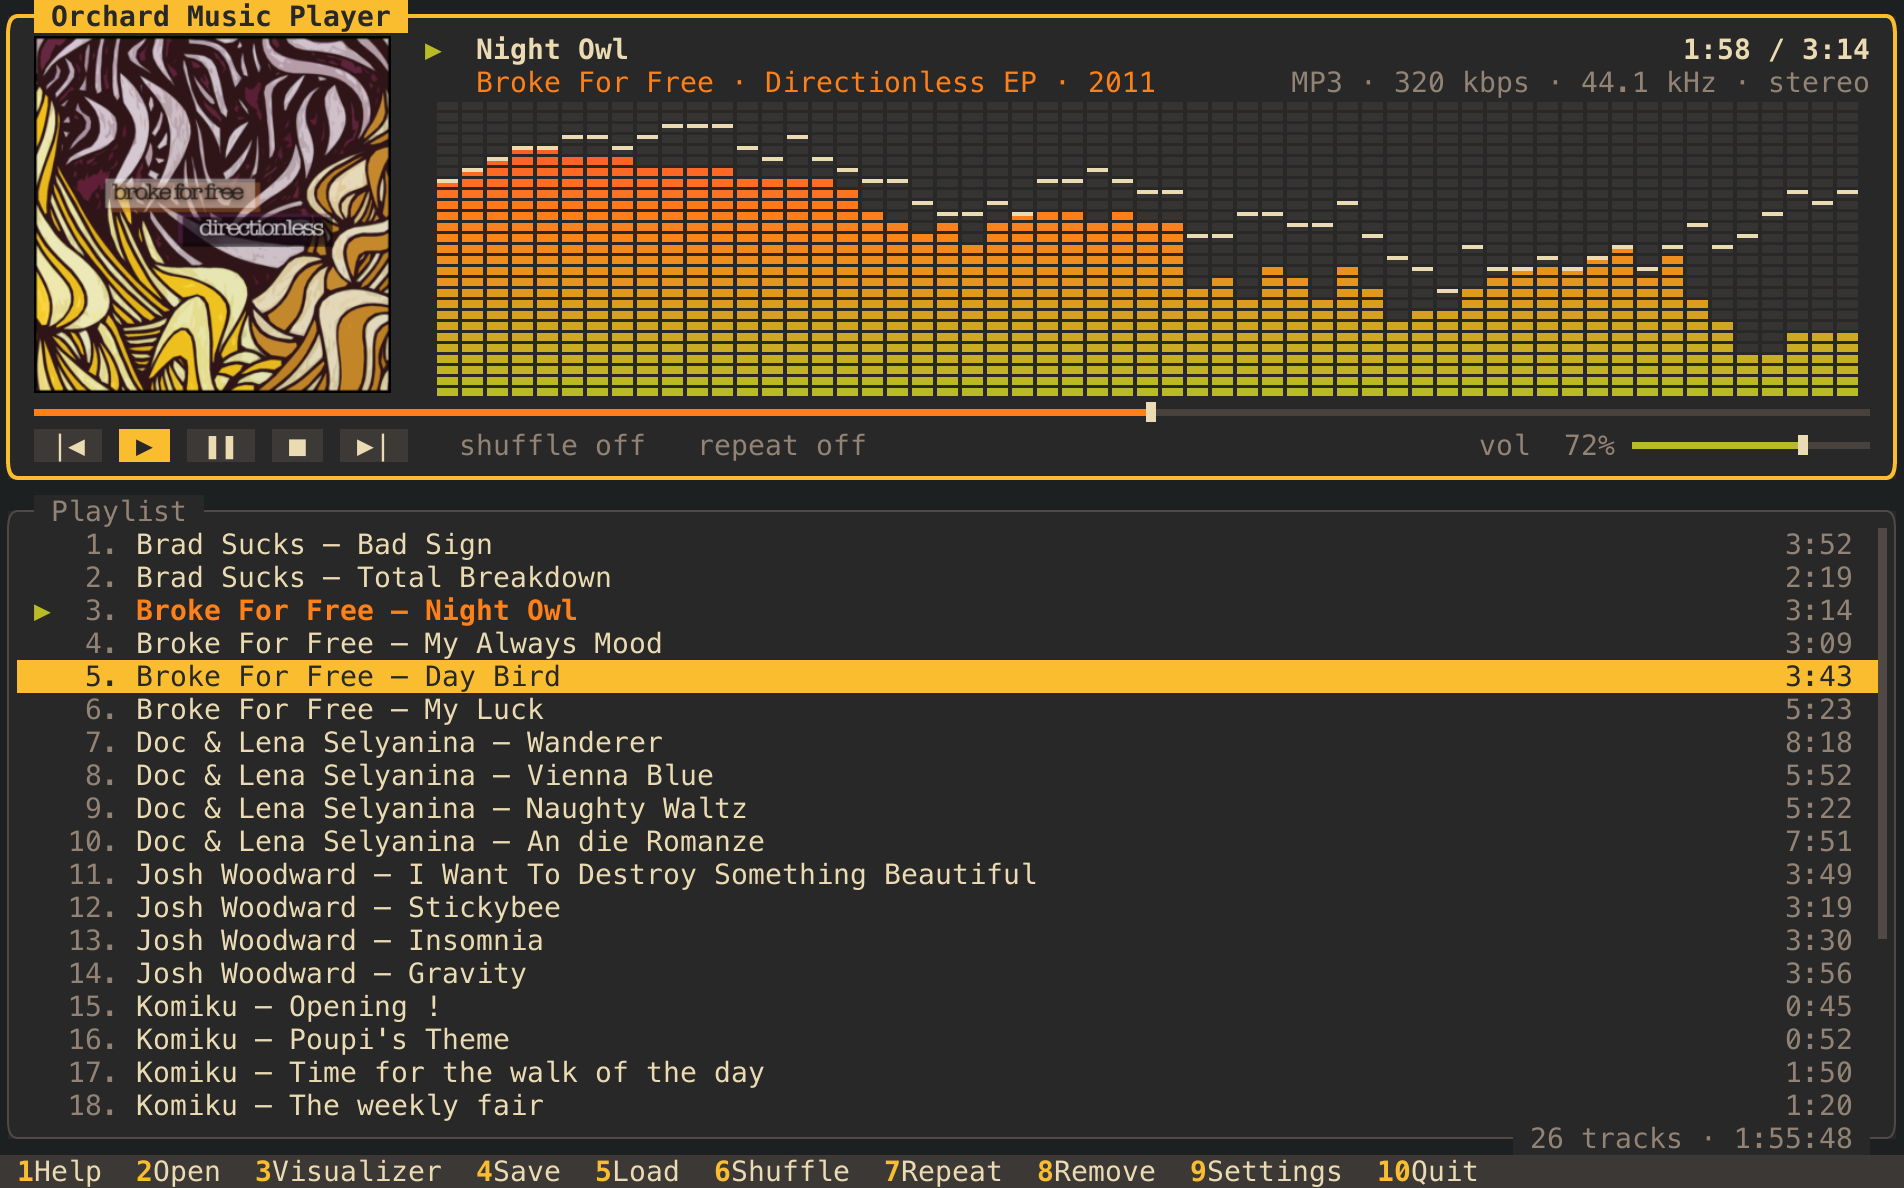
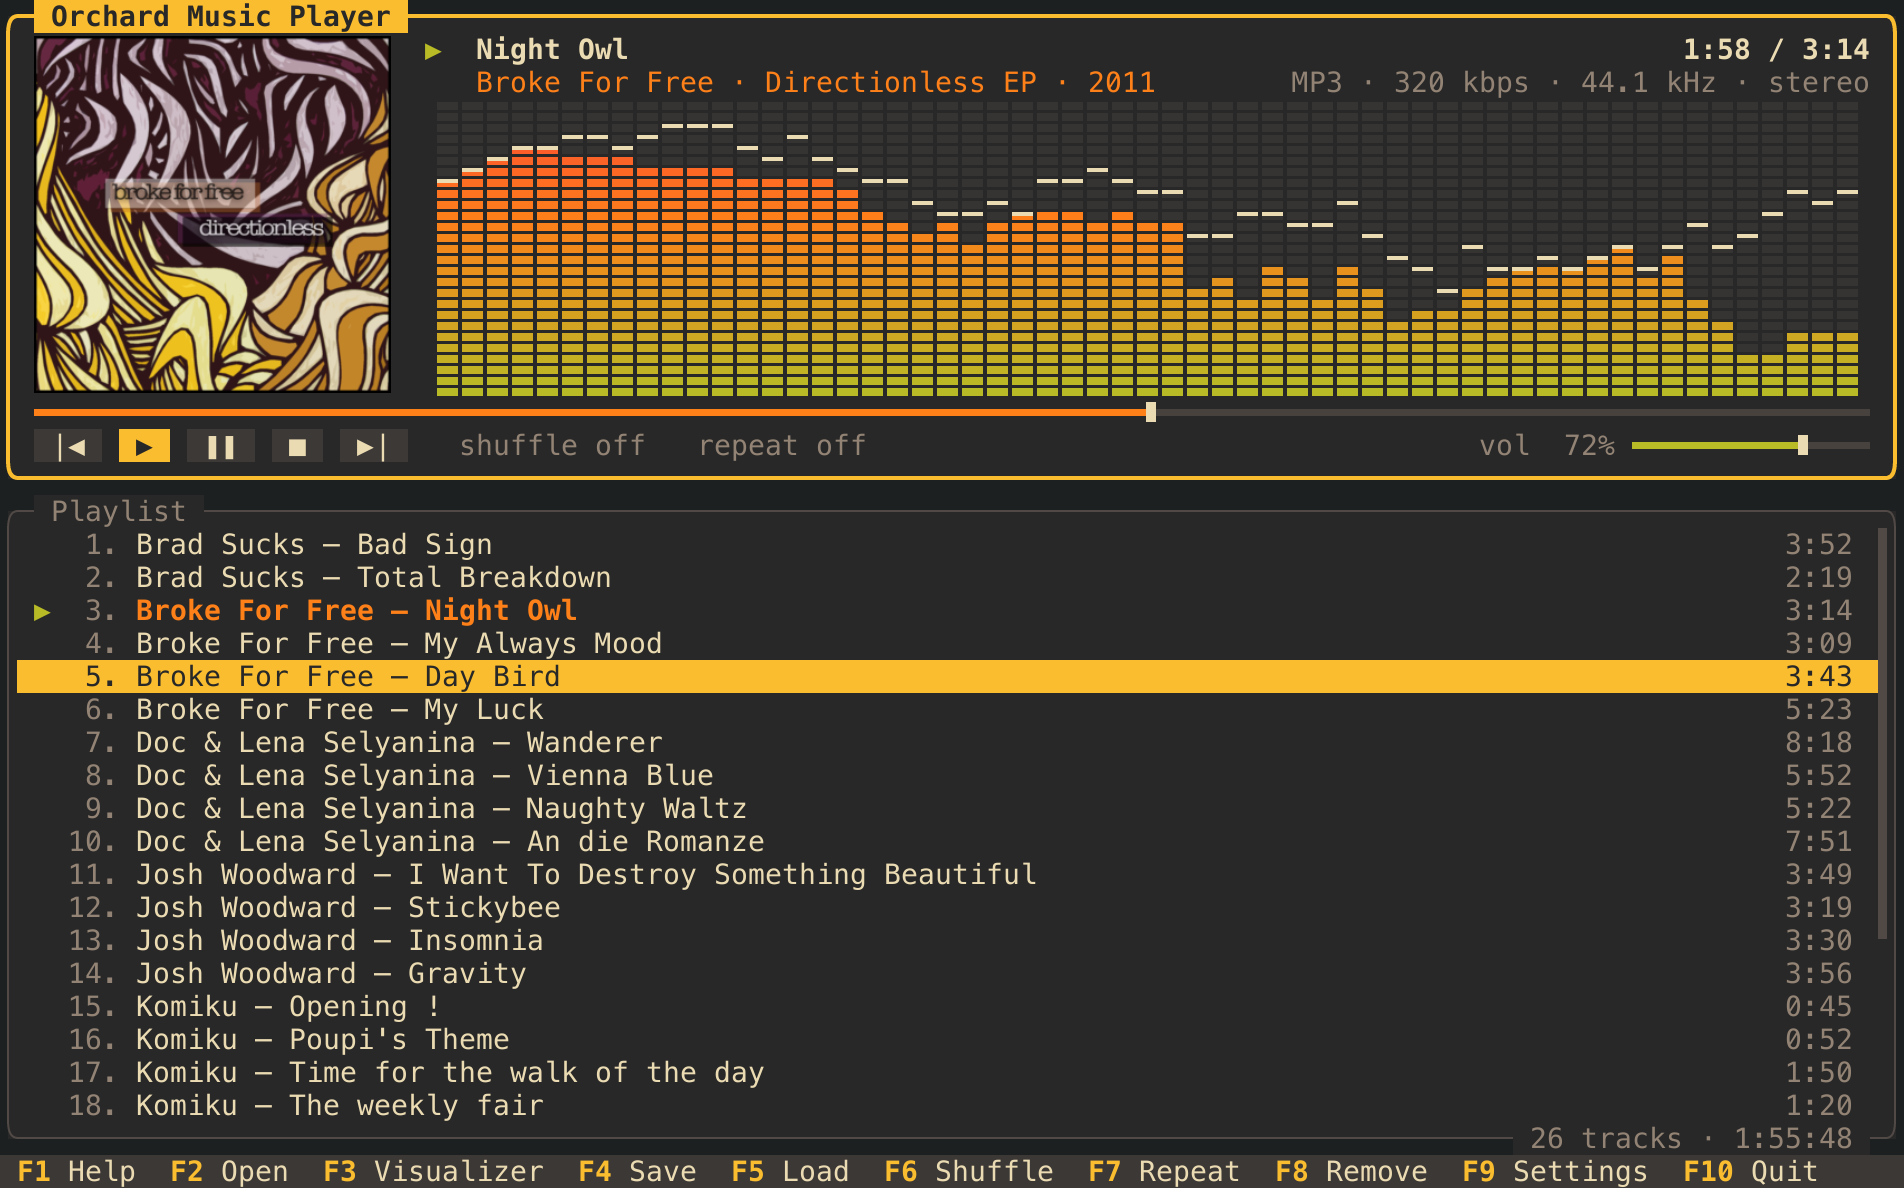
Key bar like Orchard Commander's: "F1 Help  F2 Open …"
The F-key label, a space, then the command (it was "1Help 2Open …");
item widths, wrapping and clicks follow. Website key bar and screenshots
match.

Changed region(s): [[0.4648, 0.9655, 0.9606, 1.0], [0.0, 0.9655, 0.4338, 0.9966]]

diff --git a/site/index.html b/site/index.html
@@ -150,7 +150,7 @@
         <p class="note">On Windows and Linux, use Ctrl instead of ⌘.</p>
       </div>
       <div class="fbar" aria-hidden="true">
-        <span><b>1</b>Help</span><span><b>2</b>Open</span><span><b>3</b>Visualizer</span><span><b>4</b>Save</span><span><b>5</b>Load</span><span><b>6</b>Shuffle</span><span><b>7</b>Repeat</span><span><b>8</b>Remove</span><span><b>9</b>Settings</span><span><b>10</b>Quit</span>
+        <span><b>F1</b> Help</span><span><b>F2</b> Open</span><span><b>F3</b> Visualizer</span><span><b>F4</b> Save</span><span><b>F5</b> Load</span><span><b>F6</b> Shuffle</span><span><b>F7</b> Repeat</span><span><b>F8</b> Remove</span><span><b>F9</b> Settings</span><span><b>F10</b> Quit</span>
       </div>
       <dl class="frame key-table">
         <span class="chip">Keys</span>

diff --git a/src/ui/widgets.rs b/src/ui/widgets.rs
@@ -233,7 +233,8 @@ impl Scrollbar {
     }
 }
 
-/// The F-key bar: "1Help 2Open …", keys bold in the key color. Items that
+/// The F-key bar: "F1 Help  F2 Open …" (like Orchard Commander's), keys bold
+/// in the key color. Items that
 /// don't fit wrap to the next row of `area`. Returns each item's cells and
 /// its key number, for clicks.
 pub fn key_bar_items(area: CellRect, keys: &[(&str, &str)]) -> Vec<(CellRect, usize)> {
@@ -241,7 +242,7 @@ pub fn key_bar_items(area: CellRect, keys: &[(&str, &str)]) -> Vec<(CellRect, us
     let (left, right) = (area.col + 1, area.col + area.cols);
     let (mut x, mut row) = (left, area.row);
     for (i, (key, label)) in keys.iter().enumerate() {
-        let w = (width(key) + width(label)).min(right.saturating_sub(left));
+        let w = (width(key) + 1 + width(label)).min(right.saturating_sub(left));
         if x + w > right && x > left {
             x = left;
             row += 1;
@@ -266,7 +267,7 @@ pub fn draw_key_bar(f: &mut Frame, row: CellRect, keys: &[(&str, &str)], ctx: &D
     fill(f, row, c.footer_bg);
     for (r, i) in key_bar_items(row, keys) {
         let (key, label) = keys[i];
-        let x = put(f, r.col, r.row, key, Style::new(c.footer_key, c.footer_bg).with(Flags::BOLD), r.cols);
+        let x = put(f, r.col, r.row, key, Style::new(c.footer_key, c.footer_bg).with(Flags::BOLD), r.cols) + 1;
         let room = r.cols.saturating_sub(x - r.col);
         put(f, x, r.row, &elide_right(label, room as usize), Style::new(c.footer_fg, c.footer_bg), room);
     }
@@ -377,11 +378,11 @@ mod tests {
 
     #[test]
     fn key_bar_wraps() {
-        let keys = [("1", "Help"), ("2", "Open"), ("10", "Quit")];
-        // " 1Help  2Open  10Quit" needs 21 columns.
-        assert_eq!(key_bar_rows(21, &keys), 1);
-        assert_eq!(key_bar_rows(14, &keys), 2);
-        let items = key_bar_items(CellRect::new(0, 5, 14, 2), &keys);
+        let keys = [("F1", "Help"), ("F2", "Open"), ("F10", "Quit")];
+        // " F1 Help  F2 Open  F10 Quit" needs 27 columns.
+        assert_eq!(key_bar_rows(27, &keys), 1);
+        assert_eq!(key_bar_rows(26, &keys), 2);
+        let items = key_bar_items(CellRect::new(0, 5, 18, 2), &keys);
         let rows: Vec<u16> = items.iter().map(|(r, _)| r.row).collect();
         assert_eq!(rows, [5, 5, 6]);
         assert_eq!(items[2].0.col, 1);

diff --git a/src/ui/settings/sample.rs b/src/ui/settings/sample.rs
@@ -11,7 +11,7 @@ const PLAYING: usize = 0;
 const CURSOR: usize = 2;
 /// Spectrum bar heights in eighths of the two bar rows.
 const BARS: [u8; 11] = [14, 16, 12, 15, 10, 11, 8, 9, 6, 4, 3];
-const KEYS: [(&str, &str); 3] = [("1", "Help"), ("2", "Open"), ("9", "Settings")];
+const KEYS: [(&str, &str); 2] = [("F1", "Help"), ("F9", "Settings")];
 
 /// The narrowest it is drawn.
 pub const MIN_WIDTH: u16 = 22;
@@ -77,10 +77,10 @@ pub fn draw(f: &mut Frame, r: CellRect, ctx: &DrawCtx) {
     fill(f, bar, c.footer_bg);
     let mut x = bar.col + 1;
     for (key, label) in KEYS {
-        if x + width(key) + width(label) > right(bar) {
+        if x + width(key) + 1 + width(label) > right(bar) {
             break;
         }
-        x = put(f, x, bar.row, key, Style::new(c.footer_key, c.footer_bg).with(Flags::BOLD), width(key));
+        x = put(f, x, bar.row, key, Style::new(c.footer_key, c.footer_bg).with(Flags::BOLD), width(key)) + 1;
         x = put(f, x, bar.row, label, Style::new(c.footer_fg, c.footer_bg), width(label)) + 2;
     }
 }
@@ -100,6 +100,6 @@ mod tests {
         assert!(f.row_text(1).contains("Teardrop") && f.row_text(1).contains("2:07"));
         assert!(f.row_text(8).contains("3. Kerala"));
         assert_eq!(f.cell(8, 8).unwrap().bg, theme.colors.cursor_bg, "Kerala has the cursor");
-        assert!(f.row_text(HEIGHT - 1).starts_with(" 1Help  2Open  9Settings"));
+        assert!(f.row_text(HEIGHT - 1).starts_with(" F1 Help  F9 Settings"));
     }
 }

diff --git a/src/ui/mod.rs b/src/ui/mod.rs
@@ -15,16 +15,16 @@ use crate::theme::mix;
 use widgets::{BoxFrame, DrawCtx, Scrollbar, contains, draw_key_bar, fill, inset, put, width};
 
 pub const FKEYS: &[(&str, &str)] = &[
-    ("1", "Help"),
-    ("2", "Open"),
-    ("3", "Visualizer"),
-    ("4", "Save"),
-    ("5", "Load"),
-    ("6", "Shuffle"),
-    ("7", "Repeat"),
-    ("8", "Remove"),
-    ("9", "Settings"),
-    ("10", "Quit"),
+    ("F1", "Help"),
+    ("F2", "Open"),
+    ("F3", "Visualizer"),
+    ("F4", "Save"),
+    ("F5", "Load"),
+    ("F6", "Shuffle"),
+    ("F7", "Repeat"),
+    ("F8", "Remove"),
+    ("F9", "Settings"),
+    ("F10", "Quit"),
 ];
 
 #[derive(Clone, Copy, Debug, Default, PartialEq)]
